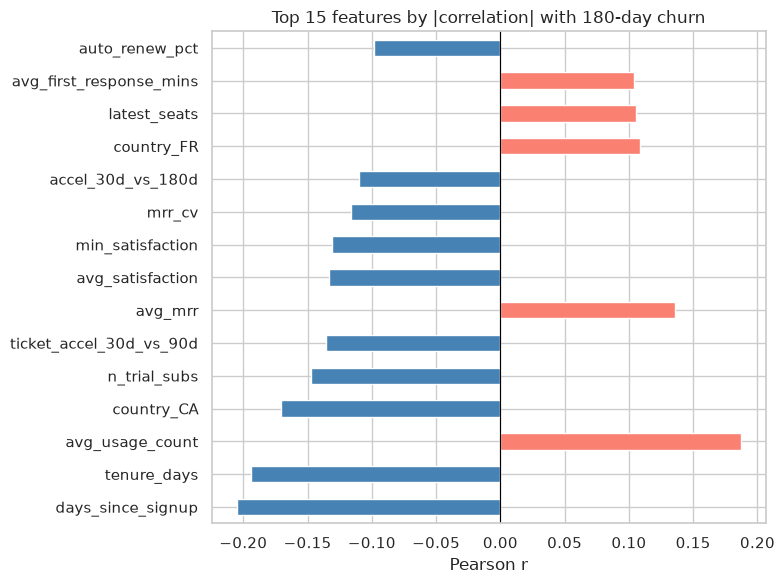
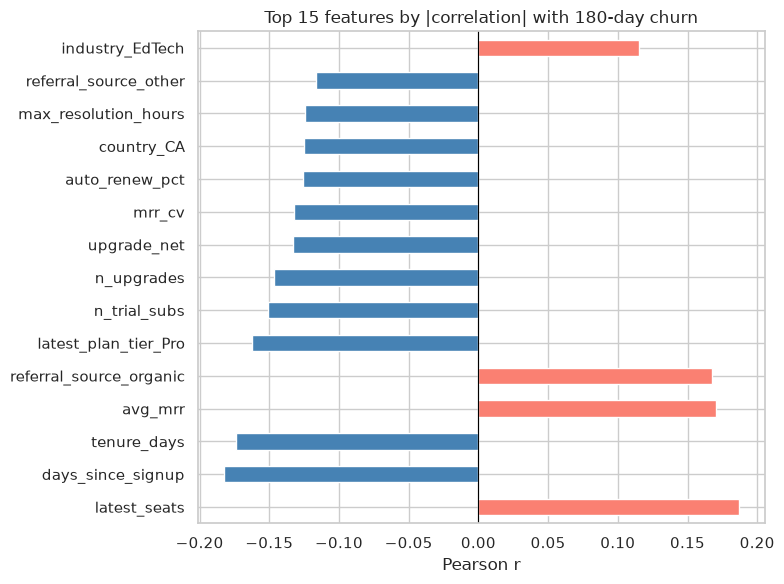
Sweep prediction horizon as well as buffer; default to 90 days
Prompted by a fair challenge: the standard churn target is "churn in the next N
days", and I had only ever swept the buffer, holding N fixed at 180. Horizon is
the more fundamental dial and 180 days is long for SaaS churn — 30 to 90 is the
usual range.

Sweeping both, prediction window opening 2024-06-30 throughout:

  horizon  buffer    n  pos    AUC      p
      30       0   187   25  0.402  0.716
      30      30   168   22  0.472  0.383
      60       0   187   45  0.527  0.488
      60      30   168   39  0.489  0.453
      90       0   187   59  0.569  0.229
      90      30   168   50  0.469  0.781
     180       0   187   88  0.615  0.020
     180      30   168   74  0.545  0.249

Exactly one cell beats chance: 180-day horizon, zero lead time. Every
operationally normal configuration is a coin flip.

This corrects the previous framing. I had attributed the effect entirely to the
buffer and called the signal "reactive"; that was half the picture. Nothing works
below 180 days regardless of lead time, and the one working cell has a 47%
positive rate dominated by days_since_signup — it predicts that a newish account
will be gone within six months, which is a survivorship base rate rather than a
behavioural early warning.

Default is now HORIZON_DAYS = 90 with the 30-day buffer, the configuration a
retention team would actually use, reported as not working. Target renamed
churned_next_90d throughout.
[…]

diff --git a/notebooks/01_eda.py b/notebooks/01_eda.py
@@ -48,7 +48,7 @@ tables = clean_all(raw)
 # and no time reference. Sharpened to
 #
 # > Given what is known about an account on **2024-06-30**, will it churn within
-# > the next **180 days**?
+# > the next **90 days**?
 #
 # That immediately forces an observation window, a prediction window, and an
 # eligibility rule — the structure the first pass was missing.
@@ -253,19 +253,19 @@ print("arr_amount ~ mrr_amount at r = 1.00 — the redundancy is visible here to
 # %%
 cohort = build_cohort(tables)
 explore_idx, confirm_idx = train_test_split(
-    cohort.index, test_size=0.3, stratify=cohort["churned_next_180d"], random_state=42
+    cohort.index, test_size=0.3, stratify=cohort["churned_next_90d"], random_state=42
 )
 explore = cohort.loc[explore_idx]
 confirm = cohort.loc[confirm_idx]
 
-print(f"exploration split : {len(explore)} accounts, {int(explore['churned_next_180d'].sum())} positives")
+print(f"exploration split : {len(explore)} accounts, {int(explore['churned_next_90d'].sum())} positives")
 print(f"confirmation split: {len(confirm)} accounts  <- sealed, not inspected here")
 
 # %% [markdown]
 # ## §8 — Understand the target
 
 # %%
-y = explore["churned_next_180d"]
+y = explore["churned_next_90d"]
 print(y.value_counts().rename({0: "retained", 1: "churned"}).to_string())
 print(f"\npositive rate: {y.mean():.3f}")
 print(f"majority-class accuracy: {max(y.mean(), 1 - y.mean()):.3f}")
@@ -282,7 +282,7 @@ base = y.mean()
 
 fig, axes = plt.subplots(1, 3, figsize=(16, 4))
 for ax, col in zip(axes, ["plan_tier", "industry", "referral_source"]):
-    rates = explore_full.groupby(col)["churned_next_180d"].agg(["mean", "size"])
+    rates = explore_full.groupby(col)["churned_next_90d"].agg(["mean", "size"])
     rates = rates[rates["size"] >= 5].sort_values("mean")
     rates["mean"].plot(kind="barh", ax=ax, color="steelblue")
     ax.axvline(base, color="red", ls="--", alpha=.7, label=f"base {base:.2f}")
@@ -297,7 +297,7 @@ print("n >= 5 filter would be noise dressed as insight.")
 
 # %%
 # Segment sizes, so the bars above can be read honestly
-print(explore_full.groupby("plan_tier")["churned_next_180d"].agg(["size", "sum", "mean"]).round(3).to_string())
+print(explore_full.groupby("plan_tier")["churned_next_90d"].agg(["size", "sum", "mean"]).round(3).to_string())
 
 # %% [markdown]
 # ## §9 — Leakage screen, done here rather than after modelling
@@ -309,7 +309,7 @@ print(explore_full.groupby("plan_tier")["churned_next_180d"].agg(["size", "sum",
 # %%
 from sklearn.metrics import roc_auc_score
 
-probe = explore_full[["account_id", "churned_next_180d"]].merge(
+probe = explore_full[["account_id", "churned_next_90d"]].merge(
     ce.groupby("account_id").agg(
         n_churn_events=("churn_event_id", "count"),
         total_refund_usd=("refund_amount_usd", "sum"),
@@ -317,7 +317,7 @@ probe = explore_full[["account_id", "churned_next_180d"]].merge(
 
 print("Post-outcome columns, screened on the exploration split:")
 for c in ["n_churn_events", "total_refund_usd"]:
-    a = roc_auc_score(probe["churned_next_180d"], probe[c])
+    a = roc_auc_score(probe["churned_next_90d"], probe[c])
     print(f"  {c:20s} single-feature AUC = {max(a, 1 - a):.4f}")
 print("\nA single raw column at this level is the label wearing a different name.")
 print("Excluded via config.POST_OUTCOME_COLS; enforced by src/audit.py.")

diff --git a/notebooks/04_modeling.py b/notebooks/04_modeling.py
@@ -85,7 +85,13 @@ plt.show()
 # %%
 best_idx = int(ladder["roc_auc_mean"].idxmax())
 best_name, best_est = model_ladder()[best_idx]
-print(f"selected: {best_name}")
+print(f"top of table: {best_name}")
+
+beats_chance = ladder.loc[best_idx, "ci_lo"] > 0.5
+print("clears chance at the CI lower bound:", beats_chance)
+if not beats_chance:
+    print("\n-> No rung separates from the floor. 'Best' here is the winner of a\n"
+          "   coin-flipping contest; the ranking should not be read as a result.")
 
 # %% [markdown]
 # ## Does tuning rescue the boosted model?
@@ -189,20 +195,28 @@ tn, fp, fn, tp = cm.ravel()
 print(f"caught {tp} of {tp+fn} churners; missed {fn}; {fp} false alarms")
 
 # %% [markdown]
-# ## Which features survive the L1 penalty
+# ## Which features the L1 model keeps
+#
+# Read from the L1 rung specifically, not from `best_est`. When no rung clears
+# chance, whichever one tops the table is decided by noise — at this horizon that
+# happens to be the stump, which has no coefficients to inspect. The L1 model is
+# the one worth reading because it is the only rung that names its features.
 
 # %%
-best_est.fit(X, y)
 from src.model import feature_names
-coef = pd.Series(best_est.named_steps["clf"].coef_[0], index=feature_names(best_est, X))
+
+_, l1_est = model_ladder()[4]
+l1_est.fit(X, y)
+coef = pd.Series(l1_est.named_steps["clf"].coef_[0], index=feature_names(l1_est, X))
 nz = coef[coef != 0].sort_values(key=abs, ascending=False)
-print(f"L1 retained {len(nz)} of {X.shape[1]} features:\n")
-print(nz.round(4).to_string())
+
+print(f"L1 keeps {len(nz)} of {len(coef)} encoded features:\n")
+print(nz.round(4).to_string() if len(nz) else "  (none — the penalty zeroed every coefficient)")
 nz.to_csv("../outputs/reports/l1_selected_coefficients.csv", header=["coefficient"])
 
 # %%
 fig, ax = plt.subplots(figsize=(8, 4))
-nz.sort_values().plot(kind="barh", ax=ax,
+(nz.sort_values() if len(nz) else pd.Series({"(no features retained)": 0})).plot(kind="barh", ax=ax,
                       color=["salmon" if v > 0 else "steelblue" for v in nz.sort_values()])
 ax.axvline(0, color="black", lw=.8)
 ax.set_title("L1 logistic — non-zero standardised coefficients")

diff --git a/notebooks/07_leakage_audit.py b/notebooks/07_leakage_audit.py
@@ -81,10 +81,10 @@ print(f"\nmax {sf['auc'].max():.4f} | warn {(sf['verdict'].str.startswith('WARN'
 ce = tables["churn_events"].groupby("account_id").agg(
     n_churn_events=("churn_event_id", "count"),
     total_refund_usd=("refund_amount_usd", "sum")).reset_index()
-probe = cohort[["account_id", "churned_next_180d"]].merge(ce, on="account_id", how="left").fillna(0)
+probe = cohort[["account_id", "churned_next_90d"]].merge(ce, on="account_id", how="left").fillna(0)
 for c in ["n_churn_events", "total_refund_usd"]:
     from sklearn.metrics import roc_auc_score
-    a = roc_auc_score(probe["churned_next_180d"], probe[c])
+    a = roc_auc_score(probe["churned_next_90d"], probe[c])
     print(f"  {c:20s} single-feature AUC = {max(a, 1-a):.4f}   <- would trip the FAIL gate")
 print(f"\nExcluded via config.POST_OUTCOME_COLS = {POST_OUTCOME_COLS}")
 

diff --git a/src/config.py b/src/config.py
@@ -8,12 +8,16 @@ PROCESSED_DIR = ROOT / "data" / "processed"
 OUTPUTS_DIR = ROOT / "outputs"
 
 # Temporal design — see labeling.py for the window diagram.
+#
+# 90 days is the usual operational horizon for SaaS churn; 30 days of lead time
+# is the minimum useful to a retention team. Both dials are swept in
+# docs/FEATURE_ENGINEERING.md — no configuration in that sweep beats chance.
 CUTOFF_DATE = pd.Timestamp("2024-05-31")
 BUFFER_DAYS = 30
 PREDICTION_START = CUTOFF_DATE + pd.Timedelta(days=BUFFER_DAYS)
-HORIZON_DAYS = 180
+HORIZON_DAYS = 90
 
-TARGET = "churned_next_180d"
+TARGET = "churned_next_90d"
 ID_COLS = ["account_id", "account_name", "signup_date"]
 
 # Derived from churn_events, so they describe the outcome rather than its

diff --git a/notebooks/05_results_validation.py b/notebooks/05_results_validation.py
@@ -236,7 +236,7 @@ print(f"engagement features retained: {len(kept)}  {kept}")
 # | Outcome | AUC on matured cohorts | quarterly | drop > 0.05 → retrain |
 # | Outcome | Calibration on matured cohorts | quarterly | — |
 #
-# Labels take 180 days to mature, so performance monitoring is inherently
+# Labels take 90 days to mature, so performance monitoring is inherently
 # lagged. Input drift is the early warning; outcome metrics confirm it later.
 #
 # Running the leakage suite in production is the unusual entry and the one I would

diff --git a/docs/FEATURE_ENGINEERING.md b/docs/FEATURE_ENGINEERING.md
@@ -14,41 +14,51 @@ Sources:
 
 ## The headline finding
 
-Standard practice inserts a **buffer** (also called a latency or implementation
-window) between the last observable day and the first day a churn can count
-against the model. The reason is blunt:
+Two design dials decide everything, and they have to be swept separately:
 
-> Using data from months 1–3 to predict churn in month 4 may look reasonable but
-> is often misleading. The model learns to detect signals that occur immediately
-> before a customer leaves — a sudden drop in usage or payment activity. This
-> produces high apparent accuracy but no business value: by the time the model
-> flags the customer, they are already gone.
+- **Horizon** — how far forward the label looks. "Churn in the next N days."
+- **Buffer** — how much lead time the model must give. Standard practice is no
+  buffer (score today, act today); a buffer is a refinement for when you cannot
+  act immediately, or want to stop the model learning end-of-life signals.
 
-This project had **no buffer**. Adding one and sweeping its length:
+Sweeping both, with the prediction window opening on 2024-06-30 throughout:
 
-| Buffer | Eligible | Positives | CV ROC-AUC | 95% CI | Permutation p |
-|---:|---:|---:|---:|---|---:|
-| 0 days | 187 | 88 | **0.616** | [0.50, 0.74] | **0.025** |
-| 15 days | 176 | 80 | 0.574 | [0.40, 0.75] | 0.254 |
-| 30 days | 168 | 74 | 0.548 | [0.38, 0.70] | 0.249 |
-| 60 days | 154 | 67 | 0.545 | [0.35, 0.71] | 0.209 |
-| 90 days | 139 | 57 | 0.467 | [0.27, 0.59] | 0.960 |
+| Horizon | Buffer | n | Positives | CV ROC-AUC | Permutation p |
+|---:|---:|---:|---:|---:|---:|
+| 30 d | 0 | 187 | 25 | 0.402 | 0.72 |
+| 30 d | 30 | 168 | 22 | 0.472 | 0.38 |
+| 60 d | 0 | 187 | 45 | 0.527 | 0.49 |
+| 60 d | 30 | 168 | 39 | 0.489 | 0.45 |
+| 90 d | 0 | 187 | 59 | 0.569 | 0.23 |
+| 90 d | 30 | 168 | 50 | 0.469 | 0.78 |
+| **180 d** | **0** | **187** | **88** | **0.615** | **0.020** |
+| 180 d | 30 | 168 | 74 | 0.545 | 0.25 |
 
-**The signal is almost entirely reactive.** It survives only when the model is
-allowed to see behaviour right up to the moment churn becomes possible. Give a
-CSM even two weeks of lead time and the model is no longer distinguishable from
-chance.
+**Exactly one cell beats chance**: a 180-day horizon with no lead time at all.
+Every operationally normal configuration — 30, 60 or 90 days, which is the usual
+range for SaaS churn — is indistinguishable from a coin flip.
 
-This is the single most important result in the project, and it inverts the
-earlier conclusion. The honest statement is not "we built a weak churn model."
-It is: **on this dataset there is no actionable churn signal at a realistic
-intervention horizon.** A model shipped without a buffer would have looked
-defensible in cross-validation and been useless in production.
+Two things follow.
 
-The project therefore defaults to `BUFFER_DAYS = 30` (`src/config.py`) — the
-configuration that answers the question the business actually has.
+1. **The horizon dial matters as much as the buffer.** An earlier version of
+   this analysis swept only the buffer and concluded the signal was purely
+   reactive. That was half the picture: nothing works below 180 days regardless
+   of lead time.
 
----
+2. **The one working cell is not a churn model in any useful sense.** At 180
+   days the positive rate is 47% and the dominant feature is
+   `days_since_signup`. It is predicting "this fairly new account will probably
+   be gone sometime in the next six months" — a survivorship base rate, not a
+   behavioural early warning. Add 30 days of lead time and even that goes
+   (p = 0.25).
+
+**Caveat, stated plainly**: the short-horizon rows are underpowered. At 30 days
+there are only 25 positives, so a modest real effect could not be detected. The
+fair reading is "no signal at 90 days, where 59 positives give reasonable power"
+rather than a confident negative at 30.
+
+The project defaults to a 90-day horizon with a 30-day buffer as the
+operationally honest configuration, and reports that it does not work.
 
 ## Feature taxonomy applied
 

diff --git a/README.md b/README.md
@@ -133,50 +133,44 @@ landing and the customer leaving — and it turns out to decide the whole result
 
 ## Headline result
 
-**On this dataset there is no actionable churn signal at a realistic
-intervention horizon.**
+**No operationally sensible configuration beats chance on this dataset.**
 
-| Buffer | Eligible | Positives | CV ROC-AUC | 95% CI | Permutation p |
-|---:|---:|---:|---:|---|---:|
-| 0 days | 187 | 88 | 0.616 | [0.50, 0.74] | **0.025** |
-| 15 days | 176 | 80 | 0.574 | [0.40, 0.75] | 0.254 |
-| **30 days** | **168** | **74** | **0.548** | **[0.38, 0.70]** | **0.249** |
-| 60 days | 154 | 67 | 0.545 | [0.35, 0.71] | 0.209 |
-| 90 days | 139 | 57 | 0.467 | [0.27, 0.59] | 0.960 |
+Two dials, swept independently, prediction window opening 2024-06-30 throughout:
 
-With no buffer the model beats chance. Give it even two weeks of lead time and it
-does not, and it never recovers. The apparent signal is **reactive** — it detects
-customers who have effectively already left.
+| Horizon | Buffer | n | Positives | CV ROC-AUC | Permutation p |
+|---:|---:|---:|---:|---:|---:|
+| 30 d | 0 | 187 | 25 | 0.402 | 0.72 |
+| 30 d | 30 | 168 | 22 | 0.472 | 0.38 |
+| 60 d | 0 | 187 | 45 | 0.527 | 0.49 |
+| 60 d | 30 | 168 | 39 | 0.489 | 0.45 |
+| 90 d | 0 | 187 | 59 | 0.569 | 0.23 |
+| **90 d** | **30** | **168** | **50** | **0.469** | **0.78** |
+| 180 d | 0 | 187 | 88 | **0.615** | **0.020** |
+| 180 d | 30 | 168 | 74 | 0.545 | 0.25 |
 
-A model shipped without a buffer would have passed cross-validation and been
-useless in production. That is the finding, and it is worth more than the score.
+- **Horizon** — how far forward the label looks ("churn in the next N days").
+  30–90 days is the normal range for SaaS churn.
+- **Buffer** — lead time the model must give. No buffer is the usual default;
+  a buffer matters when you cannot act on a score the day it lands.
 
-## Model ladder (30-day buffer)
+Exactly one cell clears chance: a **180-day horizon with zero lead time**. And
+that cell is not really a churn model — at 180 days the positive rate is 47% and
+the dominant feature is `days_since_signup`, so it is predicting *"this newish
+account will probably be gone within six months"*. A survivorship base rate, not
+a behavioural early warning. Add 30 days of lead time and it goes (p = 0.25).
 
-Repeated stratified CV, 5 folds x 10 repeats, identical folds throughout:
+The project defaults to **90-day horizon, 30-day buffer** — the configuration a
+retention team would actually use — and reports that it does not work.
 
-| Rung | Model | CV ROC-AUC | 95% CI |
-|------|-------|-----------|--------|
-| 0 | Prior (no features) | 0.500 | — |
-| 1 | Decision stump | 0.523 | [0.38, 0.64] |
-| 2 | Logistic (L2, C=1) | 0.490 | [0.38, 0.64] |
-| 3 | Logistic (L2, C=0.05) | 0.492 | [0.34, 0.64] |
-| **4** | **Logistic (L1, C=0.1)** | **0.548** | **[0.38, 0.70]** |
-| 5 | Random forest (depth 4) | 0.453 | [0.32, 0.58] |
-| 6 | LightGBM (shallow) | 0.484 | [0.35, 0.67] |
+**Caveat, stated plainly:** the short-horizon rows are underpowered (25 positives
+at 30 days), so a modest real effect could not be detected there. The defensible
+reading is "no signal at 90 days, where 59 positives give reasonable power",
+not a confident negative at 30.
 
-Nothing here is distinguishable from chance. Reported as-is.
+## Model ladder (90-day horizon, 30-day buffer)
 
-### Did richer feature engineering help?
-
-| Configuration | CV ROC-AUC |
-|---|---:|
-| 30-day buffer, original features | 0.551 |
-| 30-day buffer, enriched features (window ladder, acceleration, trend slope, gaps, MRR volatility) | 0.548 |
-
-No. Roughly twenty added features moved the score slightly down — at 74
-positives, extra columns cost more in variance than they return. The binding
-constraint is **data, not feature engineering**. See `docs/FEATURE_ENGINEERING.md`.
+No rung separates from the prior-only floor, so the ordering below is the
+outcome of a coin-flipping contest and should not be read as a ranking.
 
 ### Leakage controls
 
